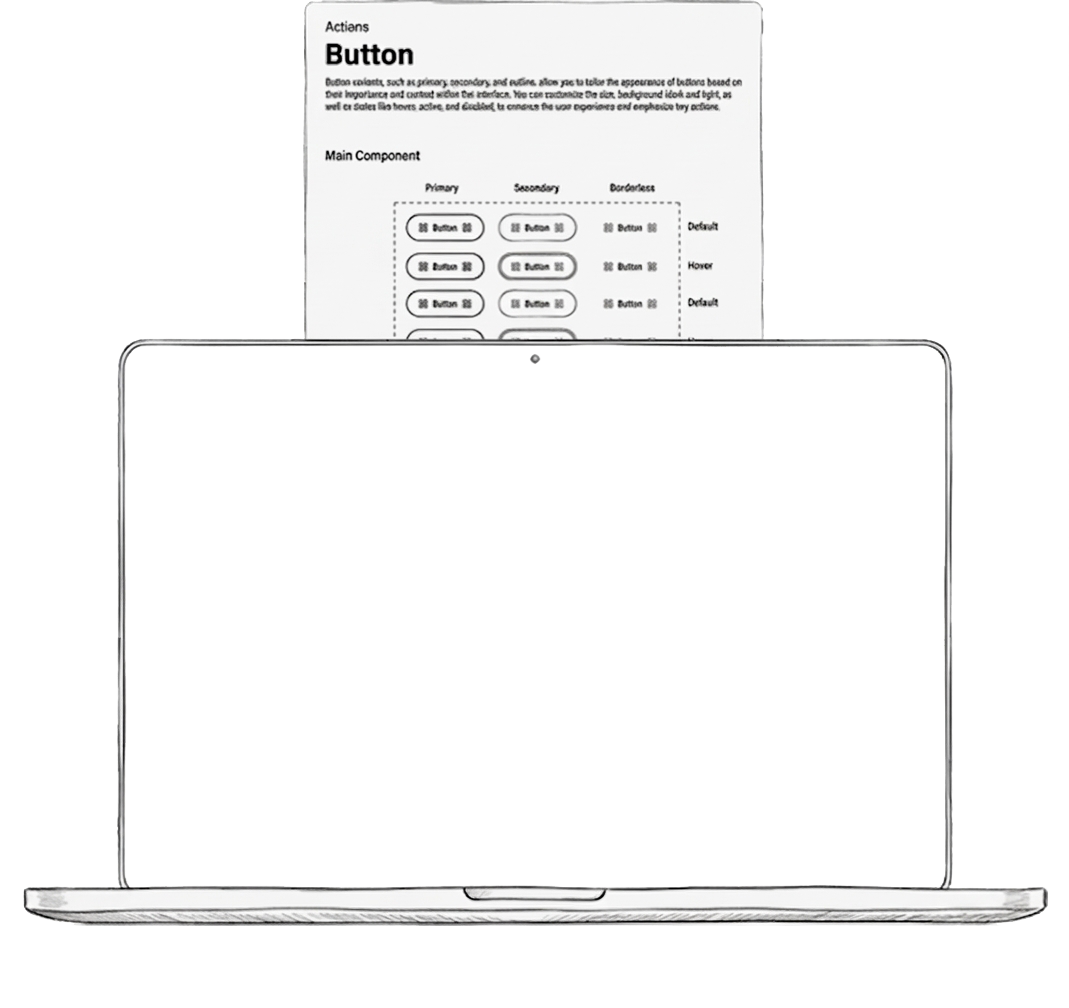
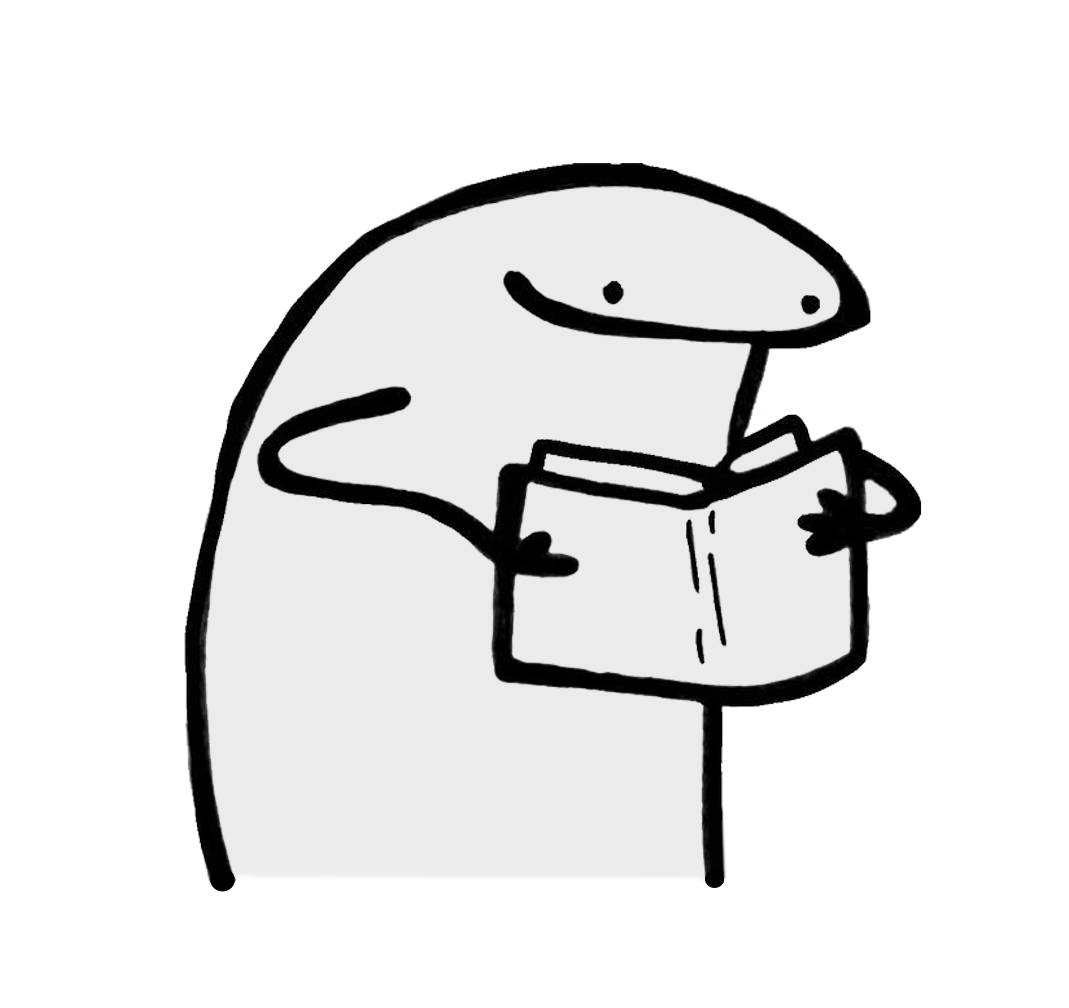
mensaje que describa el cambio

Changed region(s): [[0.0309, 0.0, 0.9878, 0.9226], [0.4013, 0.0, 0.4939, 0.0308], [0.6483, 0.0, 0.71, 0.0308]]

diff --git a/style/styles.css b/style/styles.css
@@ -375,6 +375,39 @@ body {
   background: linear-gradient(180deg, var(--bg-panel-from) 0%, var(--bg-panel-to) 100%);
   z-index: 1;
 }
+[data-theme="draft"] .about-photo__frame::after {
+  content: "";
+  position: absolute;
+  inset: 0;
+  z-index: -1;
+  background: var(--bg-panel-to) url("../resources/bg-grid-draft.png") center top / cover no-repeat;
+  -webkit-mask-image: linear-gradient(to bottom, #000 70%, transparent 100%);
+  mask-image: linear-gradient(to bottom, #000 70%, transparent 100%);
+}
+[data-theme="draft"] .about--mockup .about-media {
+  position: relative;
+}
+[data-theme="draft"] .about--mockup .about-media::before {
+  content: "";
+  position: absolute;
+  inset: 0;
+  z-index: -1;
+  background: var(--bg-panel-to) url("../resources/bg-grid-draft.png") center top / cover no-repeat;
+  -webkit-mask-image: linear-gradient(to bottom, #000 70%, transparent 100%);
+  mask-image: linear-gradient(to bottom, #000 70%, transparent 100%);
+}
+[data-theme="draft"] .about--diagrams .about-media {
+  position: relative;
+}
+[data-theme="draft"] .about--diagrams .about-media::before {
+  content: "";
+  position: absolute;
+  inset: 0;
+  z-index: -1;
+  background: var(--bg-panel-to) url("../resources/bg-grid-draft.png") center top / cover no-repeat;
+  -webkit-mask-image: linear-gradient(to bottom, #000 70%, transparent 100%);
+  mask-image: linear-gradient(to bottom, #000 70%, transparent 100%);
+}
 .about-photo__img-wrap {
   position: absolute;
   inset: 0;
@@ -419,6 +452,13 @@ body {
 }
 .about-diagram--sitemap { content: var(--diagram-sitemap-src); }
 .about-diagram--flow    { content: var(--diagram-flow-src); }
+[data-theme="draft"] .about-diagram--sitemap {
+  width: 60%;
+  margin-inline: auto;
+}
+[data-theme="draft"] .about-diagram--flow {
+  display: none;
+}
 
 .about-mockup {
   display: block;
@@ -502,6 +542,18 @@ body {
 }
 .about-device[data-scrolled] .about-device__hint {
   opacity: 0;
+}
+[data-theme="draft"] .about-device__frame {
+  display: none;
+}
+[data-theme="draft"] .about-device::before {
+  content: "";
+  position: absolute;
+  inset: 0;
+  z-index: -1;
+  background: var(--bg-panel-to) url("../resources/bg-grid-draft.png") center top / cover no-repeat;
+  -webkit-mask-image: linear-gradient(to bottom, #000 70%, transparent 100%);
+  mask-image: linear-gradient(to bottom, #000 70%, transparent 100%);
 }
 .about-device.about-device--recent {
   --device-ratio: 716 / 448;

diff --git a/contact.html b/contact.html
@@ -14,7 +14,7 @@
   <link rel="stylesheet" href="https://api.fontshare.com/v2/css?f%5B%5D=clash-display@400,500,600,700&display=swap">
 
   <link rel="stylesheet" href="style/tokens.css?v=40">
-  <link rel="stylesheet" href="style/styles.css?v=79">
+  <link rel="stylesheet" href="style/styles.css?v=97">
   <link rel="stylesheet" href="https://cdn.jsdelivr.net/npm/drawably@0.4.2/style.css">
   <link rel="stylesheet" href="https://cdn.jsdelivr.net/npm/drawably@0.4.2/font/font.css">
   <script>
@@ -130,7 +130,7 @@
       </div>
     </div>
     <div class="title__lines">
-      <h1 data-glitch>Feel free<br>to reach out.</h1>
+      <h1 data-glitch>Feel <span class="draft-hero-underline-wrap">free</span><br><span class="draft-hero-highlight-wrap">to</span> reach out.</h1>
     </div>
 
     <div class="social-links">
@@ -158,7 +158,7 @@
   <script src="https://cdn.jsdelivr.net/npm/gsap@3/dist/SplitText.min.js"></script>
   <script src="js/gsap.js" defer></script>
   <script src="js/theme.js" defer></script>
-  <script src="js/draft.js?v=30" defer></script>
+  <script src="js/draft.js?v=31" defer></script>
   <script src="js/nav.js" defer></script>
   <script src="js/favicon-animate.js" defer></script>
 

diff --git a/_preview.html b/_preview.html
@@ -14,7 +14,7 @@
   <link rel="stylesheet" href="https://api.fontshare.com/v2/css?f%5B%5D=clash-display@400,500,600,700&display=swap">
 
   <link rel="stylesheet" href="style/tokens.css?v=40">
-  <link rel="stylesheet" href="style/styles.css?v=77">
+  <link rel="stylesheet" href="style/styles.css?v=97">
   <link rel="stylesheet" href="https://cdn.jsdelivr.net/npm/drawably@0.4.2/style.css">
   <link rel="stylesheet" href="https://cdn.jsdelivr.net/npm/drawably@0.4.2/font/font.css">
   <script>

diff --git a/confidential_projects.html b/confidential_projects.html
@@ -15,7 +15,7 @@
   <link rel="stylesheet" href="https://api.fontshare.com/v2/css?f%5B%5D=clash-display@400,500,600,700&display=swap">
 
   <link rel="stylesheet" href="style/tokens.css?v=40">
-  <link rel="stylesheet" href="style/styles.css?v=77">
+  <link rel="stylesheet" href="style/styles.css?v=97">
   <link rel="stylesheet" href="https://cdn.jsdelivr.net/npm/drawably@0.4.2/style.css">
   <link rel="stylesheet" href="https://cdn.jsdelivr.net/npm/drawably@0.4.2/font/font.css">
   <script>

diff --git a/index.html b/index.html
@@ -14,7 +14,7 @@
   <link rel="stylesheet" href="https://api.fontshare.com/v2/css?f%5B%5D=clash-display@400,500,600,700&display=swap">
 
   <link rel="stylesheet" href="style/tokens.css?v=40">
-  <link rel="stylesheet" href="style/styles.css?v=85">
+  <link rel="stylesheet" href="style/styles.css?v=97">
   <link rel="stylesheet" href="https://cdn.jsdelivr.net/npm/drawably@0.4.2/style.css">
   <link rel="stylesheet" href="https://cdn.jsdelivr.net/npm/drawably@0.4.2/font/font.css">
   <script>

diff --git a/recent_projects.html b/recent_projects.html
@@ -14,7 +14,7 @@
   <link rel="stylesheet" href="https://api.fontshare.com/v2/css?f%5B%5D=clash-display@400,500,600,700&display=swap">
 
   <link rel="stylesheet" href="style/tokens.css?v=40">
-  <link rel="stylesheet" href="style/styles.css?v=77">
+  <link rel="stylesheet" href="style/styles.css?v=97">
   <link rel="stylesheet" href="https://cdn.jsdelivr.net/npm/drawably@0.4.2/style.css">
   <link rel="stylesheet" href="https://cdn.jsdelivr.net/npm/drawably@0.4.2/font/font.css">
   <script>

diff --git a/who_i_am.html b/who_i_am.html
@@ -14,7 +14,7 @@
   <link rel="stylesheet" href="https://api.fontshare.com/v2/css?f%5B%5D=clash-display@400,500,600,700&display=swap">
 
   <link rel="stylesheet" href="style/tokens.css?v=40">
-  <link rel="stylesheet" href="style/styles.css?v=77">
+  <link rel="stylesheet" href="style/styles.css?v=97">
   <link rel="stylesheet" href="https://cdn.jsdelivr.net/npm/drawably@0.4.2/style.css">
   <link rel="stylesheet" href="https://cdn.jsdelivr.net/npm/drawably@0.4.2/font/font.css">
   <script>

diff --git a/style/tokens.css b/style/tokens.css
@@ -214,7 +214,7 @@
   --photo-grayscale:   1;
   --photo-src: url("../resources/luis-romero-draft.png");
 
-  --diagram-sitemap-src: url("../resources/diagram-sitemap-draft.png");
+  --diagram-sitemap-src: url("../resources/diagram-scale-draft.png");
   --diagram-flow-src:    url("../resources/diagram-flow-draft.png");
   --mockup-screens-src:  url("../resources/mockup-screens-draft.png");
   --laptop-front-src:    url("../resources/laptop-front-draft.png");
